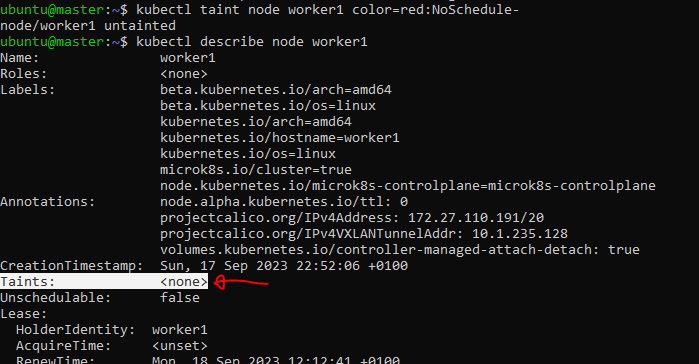
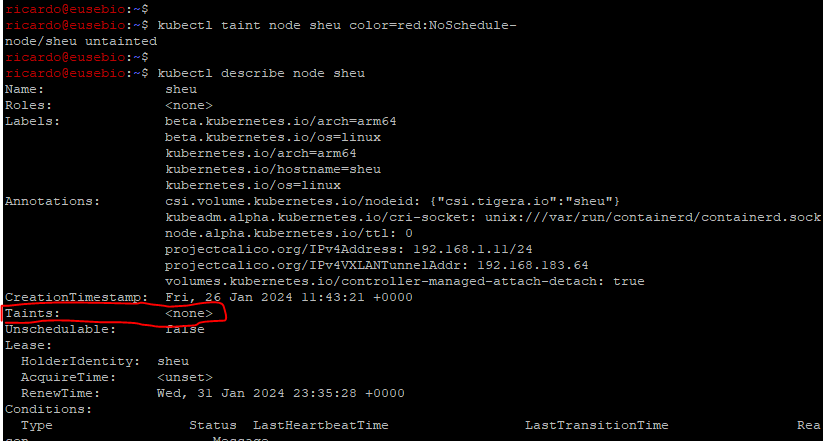
update taint

Changed region(s): [[0.0, 0.0, 1.0, 1.0], [0.6309, 0.9368, 0.8112, 0.9973], [0.9614, 0.9368, 1.0, 0.9973]]

diff --git a/02-Scheduling/Taints and Tolerations/demo.md b/02-Scheduling/Taints and Tolerations/demo.md
@@ -12,7 +12,7 @@ kubectl describe node sheu
 ```
 ![Alt Text](/00-images/Scheduling/taint1.PNG)
 
-### 3. Create a Taint on worker node  "Sheu" with key=color, value=red and effect:NoSchedule
+### 3. Create a Taint on worker node "Sheu" with key=color, value=red and effect:NoSchedule
 ```
 kubectl taint node sheu color=red:NoSchedule
 ```
@@ -69,11 +69,20 @@ kubectl apply -f templates/bee.yaml
 kubectl get pods
 ```
 ![Alt Text](/00-images/Scheduling/taint9.PNG)
-- As the POD bee has the toleration, We can see the POD bee is running while pod mosquito still pending
+- As the POD bee has the toleration, We can see that the POD bee is running while pod mosquito still pending
 
-7º Remove the taint on node worker1
+### 7. Remove the taint on node worker "Sheu"
+```
+kubectl taint node sheu color=red:NoSchedule-
+
+kubectl describe node sheu
+```
 
 ![Alt Text](/00-images/Scheduling/taint10.PNG)
+- NOTE: We can see that the Taint on node sheu was removed
 
+```
+kubectl get pods
+```
 ![Alt Text](/00-images/Scheduling/taint11.PNG)
-- We can see the pod mosquito is running now because there is no taint on worker1 node
+- We can see that the pod mosquito is running now, because there is no Taint on worker node "Sheu", even if there are some tolerations in the PODS, It does not matter, the PODS will be scheduled on any available node. Only if there is a Taint on any node, the POD can be scheduled or not, as we saw in this demo so far.
